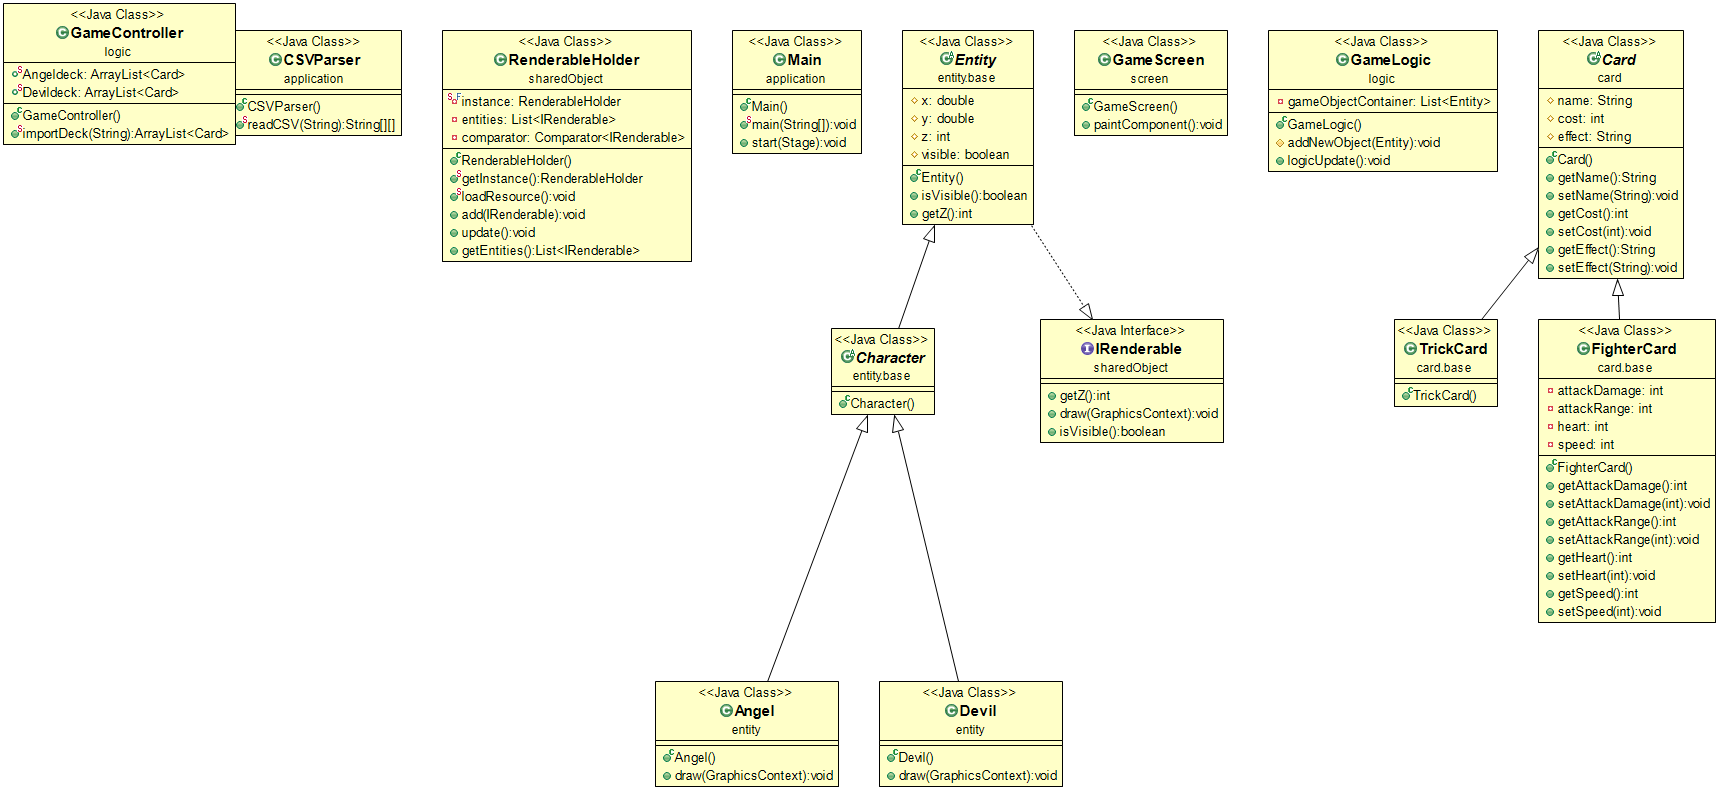
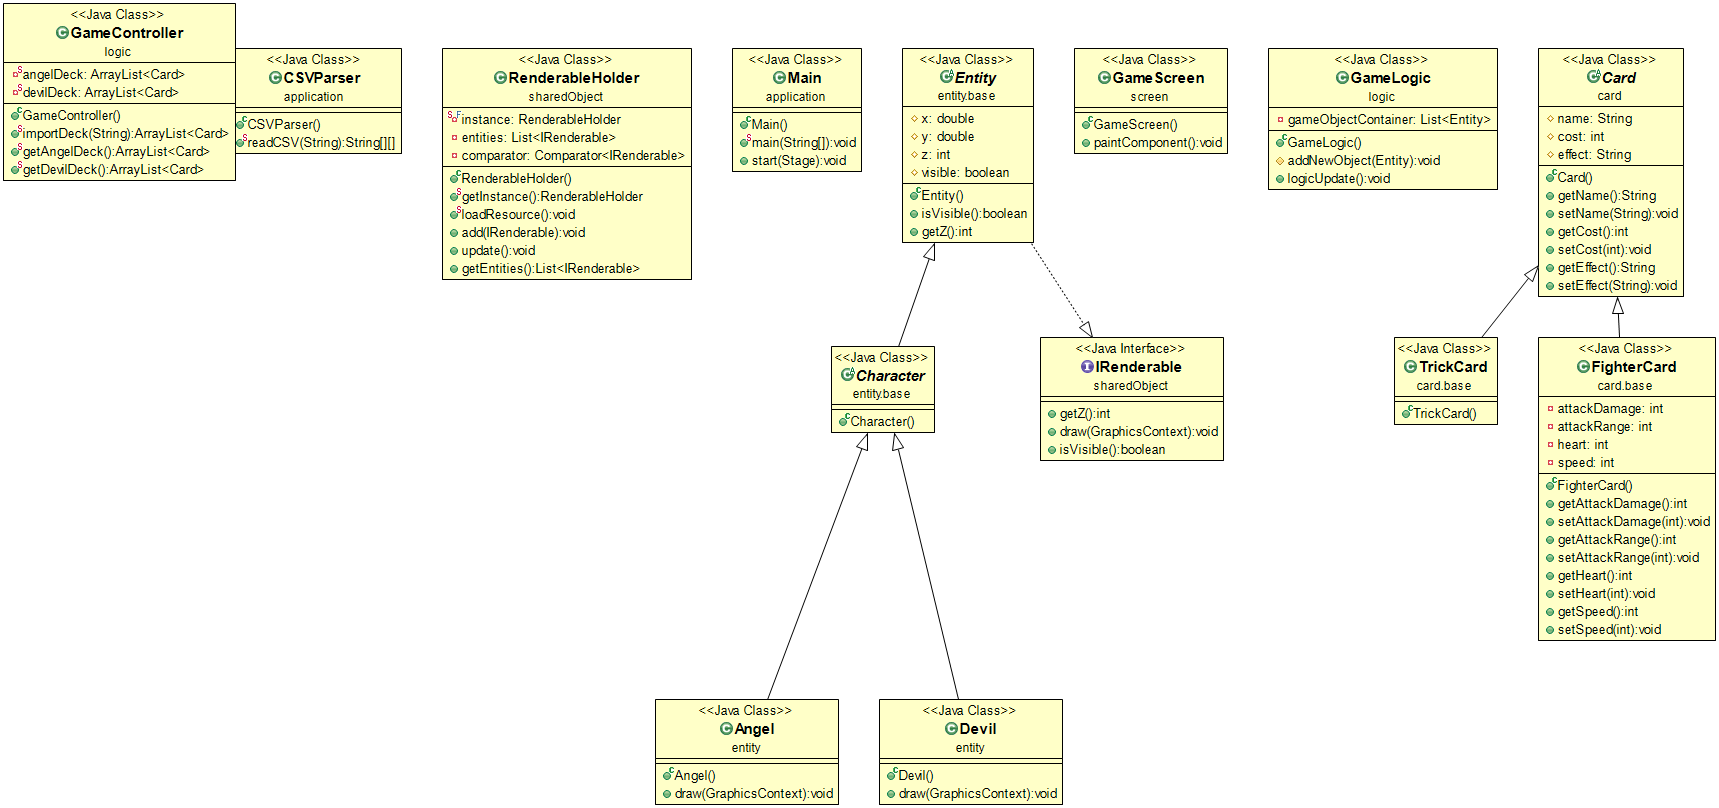
Update GameController

diff --git a/src/logic/GameController.java b/src/logic/GameController.java
@@ -8,15 +8,15 @@ import card.base.FighterCard;
 import card.base.TrickCard;
 
 public class GameController {
-	public static ArrayList<Card> Angeldeck = importDeck("AngelDeck.csv");
-	public static ArrayList<Card> Devildeck = importDeck("DevilDeck.csv");
+	private static ArrayList<Card> angelDeck = importDeck("AngelDeck.csv");
+	private static ArrayList<Card> devilDeck = importDeck("DevilDeck.csv");
 
 	public static ArrayList<Card> importDeck(String filename) {
 		ArrayList<Card> deck = new ArrayList<Card>();
 		String[][] deckData = CSVParser.readCSV(filename);
 
 		for (int i = 2; i < deckData.length; i++) { // each row = each card
-			System.out.println(deckData[i][0]);
+			
 			if (deckData[i][0].equals("Fighter")) {
 				FighterCard card = new FighterCard();
 				card.setName(deckData[i][1]);
@@ -37,6 +37,14 @@ public class GameController {
 			}
 		}
 		return deck;
+	}
+
+	public static ArrayList<Card> getAngelDeck() {
+		return angelDeck;
+	}
+
+	public static ArrayList<Card> getDevilDeck() {
+		return devilDeck;
 	}
 
 }

diff --git a/src/application/Main.java b/src/application/Main.java
@@ -2,10 +2,11 @@ package application;
 
 import javafx.application.Application;
 import javafx.stage.Stage;
+import logic.GameController;
 
 public class Main extends Application {
 	public static void main(String[] args) {
-		Application.launch(args);
+		//Application.launch(args);
 
 	}
 
